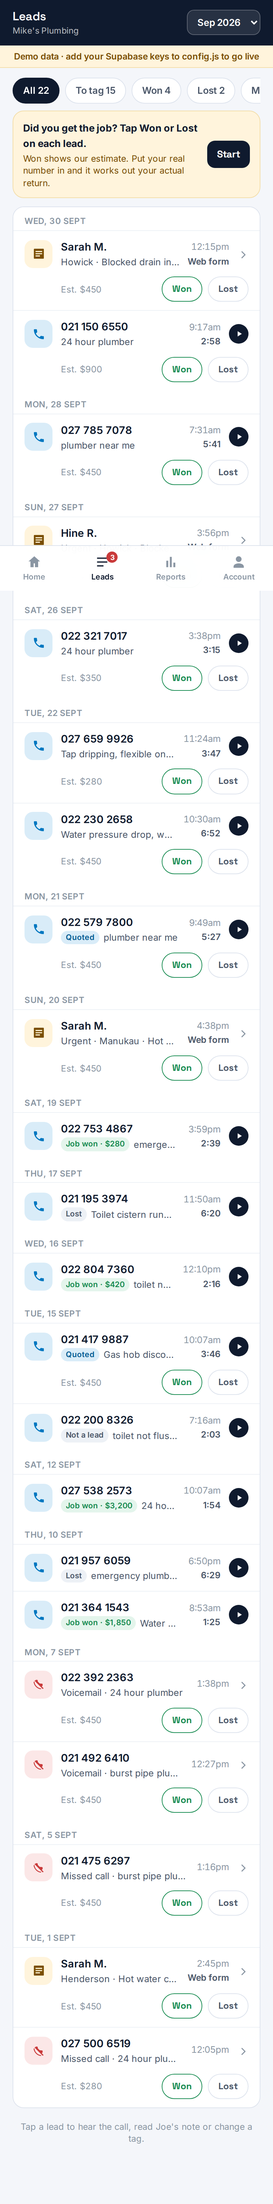
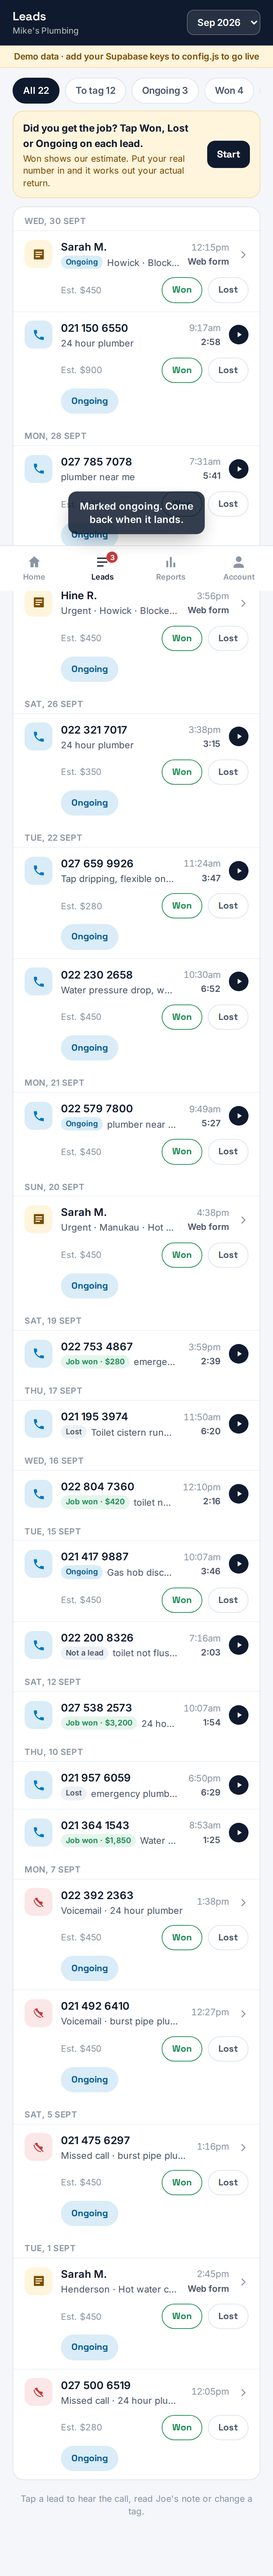
Add Ongoing as a lead outcome
Inline strip now offers Won, Lost and Ongoing; ongoing leads keep their
Won/Lost buttons until they land. Replaces Quoted with Ongoing in the
detail view (legacy quoted values display as Ongoing), adds an Ongoing
filter and report row, and allows the value in the schema.

Claude-Session: https://claude.ai/code/session_01VgpvMX7zLqg1kcFMCfdGMH

diff --git a/portal/app/public/app.js b/portal/app/public/app.js
@@ -256,9 +256,9 @@ function monthStats(c, ym) {
   const leads = all.length - spam;
   const won = all.filter((x) => x.client_status === "won");
   const wonValue = won.reduce((a, x) => a + (Number(x.job_value) || 0), 0);
-  const quoted = all.filter((x) => x.client_status === "quoted").length;
+  const quoted = all.filter((x) => x.client_status === "quoted" || x.client_status === "ongoing").length; // "ongoing" in the UI
   const lost = all.filter((x) => x.client_status === "lost").length;
-  const untagged = all.filter((x) => x.client_status === "new" || x.client_status === "quoted").length;
+  const untagged = all.filter((x) => x.client_status === "new").length;
   const estTotal = all.filter((x) => x.client_status !== "spam" && x.client_status !== "not_lead").reduce((a, x) => a + estimateFor(x, c), 0);
   const nWeeks = Math.ceil(daysIn(ym) / 7); const weeks = new Array(nWeeks).fill(0);
   for (const x of all) if (x.client_status !== "spam") weeks[Math.min(nWeeks, weekOf(x.called_at || x.received_at)) - 1]++;
@@ -495,17 +495,18 @@ function renderNoPortal() {
 
 /* ═══════════════════════════ screens: partner ═══════════════════════════ */
 const targetChip = (st) => st.target === "on" ? `<span class="chip good"><i></i>On target</span>` : st.target === "above" ? `<span class="chip good"><i></i>Above target</span>` : `<span class="chip warn"><i></i>Below target</span>`;
-function statusChip(x) { const m = { won: ["good", "Job won"], lost: ["", "Lost"], quoted: ["blue", "Quoted"], not_lead: ["", "Not a lead"], spam: ["", "Spam"] }; if (!m[x.client_status]) return ""; const [cls, l] = m[x.client_status]; return `<span class="chip ${cls}">${l}${x.client_status === "won" && x.job_value ? ` · ${money(x.job_value)}` : ""}</span>`; }
+function statusChip(x) { const m = { won: ["good", "Job won"], lost: ["", "Lost"], ongoing: ["blue", "Ongoing"], quoted: ["blue", "Ongoing"], not_lead: ["", "Not a lead"], spam: ["", "Spam"] }; if (!m[x.client_status]) return ""; const [cls, l] = m[x.client_status]; return `<span class="chip ${cls}">${l}${x.client_status === "won" && x.job_value ? ` · ${money(x.job_value)}` : ""}</span>`; }
 function leadRow(x, base, c) {
   const isCall = x.kind === "call"; const missed = isCall && x.outcome !== "answered"; const ic = isCall ? (missed ? "miss" : "") : "form";
-  const canTag = c && (x.client_status === "new" || x.client_status === "quoted") && !(isCall && missed && x.outcome === "missed" && false);
+  const isOngoing = x.client_status === "ongoing" || x.client_status === "quoted";
+  const canTag = c && (x.client_status === "new" || isOngoing);
   const est = c ? estimateFor(x, c) : 0;
   const t1 = isCall ? x.caller_number : x.name || x.phone;
   const t2 = isCall ? (missed ? `${x.outcome === "voicemail" ? "Voicemail" : "Missed call"} · ${x.keyword || x.city || "Google Ads"}` : x.admin_note || x.keyword || x.city || "Google Ads call") : `${x.is_urgent ? "Urgent · " : ""}${x.suburb ? x.suburb + " · " : ""}${x.message}`;
   const hasRec = isCall && (x.recording_url || x.recording_path);
   const row = `<a class="li" href="#${base}/lead/${x.id}"><div class="ic ${ic}">${isCall ? (missed ? ICON.missed : ICON.phone) : ICON.form}</div><div class="grow"><div class="t1"><span>${h(t1)}</span></div><div class="t2">${x.client_status !== "new" ? statusChip(x) : ""}<span class="tx">${h(t2)}</span></div></div><div class="meta"><div class="tm">${fmtTime(x.at)}</div><div class="du">${isCall ? (missed ? "" : durShort(x.duration_sec)) : "Web form"}</div></div>${hasRec ? `<span class="play">${ICON.play}</span>` : `<span class="chev">${ICON.chev}</span>`}</a>`;
   if (!canTag) return `<div class="lw">${row}</div>`;
-  return `<div class="lw">${row}<div class="tagstrip" data-id="${x.id}" data-kind="${x.kind}" data-est="${est}"><span class="est">${est ? `Est. ${money(est)}` : "Did you get it?"}</span><button class="tg won" data-act="won">Won</button><button class="tg lost" data-act="lost">Lost</button>
+  return `<div class="lw">${row}<div class="tagstrip" data-id="${x.id}" data-kind="${x.kind}" data-est="${est}"><span class="est">${est ? `Est. ${money(est)}` : "Did you get it?"}</span><button class="tg won" data-act="won">Won</button><button class="tg lost" data-act="lost">Lost</button>${isOngoing ? "" : `<button class="tg ongoing" data-act="ongoing">Ongoing</button>`}
     <div class="valrow hidden"><span class="cur">$</span><input type="number" inputmode="decimal" min="0" step="10" value="${est || ""}" aria-label="Job value" placeholder="job value"><button class="tg save" data-act="save">Save</button><button class="tg cancel" data-act="cancel" aria-label="Cancel">${ICON.x}</button><span class="hint">Your real number, ex GST. Rough is fine.</span></div></div></div>`;
 }
 // one handler per list: Won → value box (prefilled with the estimate) → Save; Lost saves straight away
@@ -513,13 +514,14 @@ function bindTagStrips(root, afterSave) {
   root.addEventListener("click", async (e) => {
     const btn = e.target.closest("[data-act]"); if (!btn) return; const strip = btn.closest(".tagstrip"); if (!strip) return;
     e.preventDefault(); const act = btn.dataset.act; const val = strip.querySelector(".valrow"); const input = strip.querySelector("input");
-    if (act === "won") { val.classList.remove("hidden"); strip.querySelector(".tg.won").classList.add("hidden"); strip.querySelector(".tg.lost").classList.add("hidden"); input.focus(); input.select(); return; }
-    if (act === "cancel") { val.classList.add("hidden"); strip.querySelector(".tg.won").classList.remove("hidden"); strip.querySelector(".tg.lost").classList.remove("hidden"); return; }
+    const mainBtns = strip.querySelectorAll(".tg.won, .tg.lost, .tg.ongoing");
+    if (act === "won") { val.classList.remove("hidden"); mainBtns.forEach((b) => b.classList.add("hidden")); input.focus(); input.select(); return; }
+    if (act === "cancel") { val.classList.add("hidden"); mainBtns.forEach((b) => b.classList.remove("hidden")); return; }
     const kind = strip.dataset.kind, id = strip.dataset.id;
-    const patch = act === "save" ? { client_status: "won", job_value: Math.max(0, Number(input.value) || 0) } : { client_status: "lost", job_value: 0 };
+    const patch = act === "save" ? { client_status: "won", job_value: Math.max(0, Number(input.value) || 0) } : act === "ongoing" ? { client_status: "ongoing", job_value: 0 } : { client_status: "lost", job_value: 0 };
     strip.querySelectorAll("button").forEach((b) => b.setAttribute("disabled", ""));
     try { await api.updateLead(kind, id, patch); const rec = kind === "call" ? DB.calls.find((r) => r.id === id) : DB.enquiries.find((r) => r.id === id); if (rec) Object.assign(rec, patch);
-      toast(act === "save" ? `Nice one. ${money(patch.job_value)} won.` : "Tagged as lost"); afterSave && afterSave(); }
+      toast(act === "save" ? `Nice one. ${money(patch.job_value)} won.` : act === "ongoing" ? "Marked ongoing. Come back when it lands." : "Tagged as lost"); afterSave && afterSave(); }
     catch (ex) { toast(ex.message, true); strip.querySelectorAll("button").forEach((b) => b.removeAttribute("disabled")); }
   });
 }
@@ -569,15 +571,15 @@ function renderLeads(ctx) {
   const c = ctx.client; const months = clientMonths(c.id); const cur = CUR_YM();
   const ym = ctx.args[0] && months.includes(ctx.args[0]) ? ctx.args[0] : months[0] || cur; const filter = ctx.args[1] || "all";
   let items = leadsFor(c.id, ym);
-  const isUntagged = (x) => x.client_status === "new" || x.client_status === "quoted";
-  const counts = { all: items.length, missed: items.filter((x) => x.kind === "call" && x.outcome !== "answered").length, web: items.filter((x) => x.kind === "enquiry").length, rec: items.filter((x) => x.recording_url || x.recording_path).length, untagged: items.filter(isUntagged).length, won: items.filter((x) => x.client_status === "won").length, lost: items.filter((x) => x.client_status === "lost").length };
-  if (filter === "missed") items = items.filter((x) => x.kind === "call" && x.outcome !== "answered"); else if (filter === "web") items = items.filter((x) => x.kind === "enquiry"); else if (filter === "rec") items = items.filter((x) => x.recording_url || x.recording_path); else if (filter === "untagged") items = items.filter(isUntagged); else if (filter === "won") items = items.filter((x) => x.client_status === "won"); else if (filter === "lost") items = items.filter((x) => x.client_status === "lost");
+  const isUntagged = (x) => x.client_status === "new"; const isOngoing = (x) => x.client_status === "ongoing" || x.client_status === "quoted";
+  const counts = { all: items.length, missed: items.filter((x) => x.kind === "call" && x.outcome !== "answered").length, web: items.filter((x) => x.kind === "enquiry").length, rec: items.filter((x) => x.recording_url || x.recording_path).length, untagged: items.filter(isUntagged).length, ongoing: items.filter(isOngoing).length, won: items.filter((x) => x.client_status === "won").length, lost: items.filter((x) => x.client_status === "lost").length };
+  if (filter === "missed") items = items.filter((x) => x.kind === "call" && x.outcome !== "answered"); else if (filter === "web") items = items.filter((x) => x.kind === "enquiry"); else if (filter === "rec") items = items.filter((x) => x.recording_url || x.recording_path); else if (filter === "untagged") items = items.filter(isUntagged); else if (filter === "ongoing") items = items.filter(isOngoing); else if (filter === "won") items = items.filter((x) => x.client_status === "won"); else if (filter === "lost") items = items.filter((x) => x.client_status === "lost");
   const wonSum = leadsFor(c.id, ym).filter((x) => x.client_status === "won").reduce((a, x) => a + (Number(x.job_value) || 0), 0);
   const groups = []; for (const x of items) { const d = fmtDay(x.at); const g = groups[groups.length - 1]; if (g && g.d === d) g.items.push(x); else groups.push({ d, items: [x] }); }
   const chip = (k, l) => `<a class="f ${filter === k ? "on" : ""}" href="#${ctx.base}/leads/${ym}/${k}">${l} ${counts[k]}</a>`;
   app().innerHTML = topBar({ title: "Leads", sub: h(c.business_name), right: monthSelect("ym-sel", months.length ? months : [ym], ym, ym === cur) }) + `<div class="shell">
-  <div class="chips mt12">${chip("all", "All")}${chip("untagged", "To tag")}${chip("won", "Won")}${chip("lost", "Lost")}${chip("missed", "Missed")}${chip("web", "Web forms")}${chip("rec", "Recorded")}</div>
-  ${counts.untagged && filter === "all" ? `<div class="card" style="padding:12px 14px;margin-top:4px;background:var(--gold-bg);border-color:#F3DDA8"><div class="row"><div class="grow"><b style="font-size:14px">Did you get the job? Tap Won or Lost on each lead.</b><div class="small" style="color:var(--gold-ink);margin-top:2px">Won shows our estimate. Put your real number in and it works out your actual return.</div></div><a class="btn sm navy" href="#${ctx.base}/leads/${ym}/untagged">Start</a></div></div>` : ""}
+  <div class="chips mt12">${chip("all", "All")}${chip("untagged", "To tag")}${chip("ongoing", "Ongoing")}${chip("won", "Won")}${chip("lost", "Lost")}${chip("missed", "Missed")}${chip("web", "Web forms")}${chip("rec", "Recorded")}</div>
+  ${counts.untagged && filter === "all" ? `<div class="card" style="padding:12px 14px;margin-top:4px;background:var(--gold-bg);border-color:#F3DDA8"><div class="row"><div class="grow"><b style="font-size:14px">Did you get the job? Tap Won, Lost or Ongoing on each lead.</b><div class="small" style="color:var(--gold-ink);margin-top:2px">Won shows our estimate. Put your real number in and it works out your actual return.</div></div><a class="btn sm navy" href="#${ctx.base}/leads/${ym}/untagged">Start</a></div></div>` : ""}
   ${filter === "won" && wonSum ? `<div class="card mt12" style="padding:12px 14px;background:var(--good-bg);border-color:#BFE5CF"><b style="color:#0F6B3D">${money(wonSum)} confirmed won in ${ymLabel(ym, false)}</b><div class="small" style="color:#1F5A3C;margin-top:2px">From ${counts.won} job${counts.won === 1 ? "" : "s"} on a ${money(c.monthly_fee)} plan.</div></div>` : ""}
   <div class="list mt12" id="lead-list">${groups.length ? groups.map((g) => `<div class="day">${h(g.d)}</div>${g.items.map((x) => leadRow(x, ctx.base, c)).join("")}`).join("") : emptyState(filter === "all" ? `Nothing here for ${ymLabel(ym, false)} yet` : "Nothing in this filter", filter === "all" ? "Calls and web enquiries show up here as they come in." : "")}</div>
   <p class="small muted center" style="margin:18px 0 8px">Tap a lead to hear the call, read ${h(JOE.name)}'s note or change a tag.</p></div>`;
@@ -588,6 +590,7 @@ async function renderLead(ctx) {
   const x = findLead(ctx.args[0]); if (!x || x.client_id !== ctx.cid) return go(`${ctx.base}/leads`);
   const isCall = x.kind === "call"; const missed = isCall && x.outcome !== "answered";
   const tel = (isCall ? x.caller_number : x.phone || "").replace(/\s/g, "");
+  if (x.client_status === "quoted") x.client_status = "ongoing"; // legacy value shows as Ongoing
   const segBtn = (k, l, ic) => `<button data-st="${k}" class="${x.client_status === k ? "on " + k : ""}">${ic}${l}</button>`;
   const hasRec = isCall && (x.recording_url || x.recording_path);
   const c = ctx.client; const est = estimateFor(x, c);
@@ -602,7 +605,7 @@ async function renderLead(ctx) {
   ${isCall && missed ? `<div class="card mt12" style="background:var(--bad-bg);border-color:#F2C9C9"><b style="font-size:14.5px;color:var(--bad)">This one rang out.</b><p class="small mt8" style="color:#7A2E2E;line-height:1.45">Most people searching for an emergency tradie call the next result if nobody answers. A call back inside 10 minutes recovers a good share of these.</p></div>` : ""}
   ${x.admin_note ? `<div class="card note mt12"><div class="who"><div class="avatar">${h(JOE.name[0])}</div><div><b>${h(JOE.name)}'s note</b><small>From the call review</small></div></div><p>${h(x.admin_note)}</p></div>` : ""}
   <div class="sec"><div class="sec-h"><h2>What happened with this lead?</h2></div><div class="card">
-    <div class="seg six">${segBtn("new", "New", ICON.dot)}${segBtn("quoted", "Quoted", ICON.quote)}${segBtn("won", "Won", ICON.star)}${segBtn("lost", "Lost", ICON.dn)}${segBtn("not_lead", "Not a lead", ICON.ban)}${segBtn("spam", "Spam", ICON.x)}</div>
+    <div class="seg six">${segBtn("new", "New", ICON.dot)}${segBtn("ongoing", "Ongoing", ICON.quote)}${segBtn("won", "Won", ICON.star)}${segBtn("lost", "Lost", ICON.dn)}${segBtn("not_lead", "Not a lead", ICON.ban)}${segBtn("spam", "Spam", ICON.x)}</div>
     ${est ? `<div class="est-line"><span>${h(JOE.name)}'s estimate for this job</span><b>${money(est)}</b></div>` : ""}
     <div id="won-box" class="${x.client_status === "won" ? "" : "hidden"}"><label class="fld"><span>What it was actually worth (ex GST, rough is fine)</span><input id="jv" type="number" inputmode="decimal" placeholder="e.g. ${est || 450}" value="${x.job_value || ""}"></label></div>
     <label class="fld"><span>Your note (optional)</span><textarea id="cn" placeholder="e.g. Booked for Tuesday, quoted $420">${h(x.client_note || "")}</textarea></label>
@@ -644,7 +647,7 @@ function renderReport(ctx) {
   const kv = (k, v) => `<div class="rpt-k"><span>${k}</span><b>${v}</b></div>`;
   app().innerHTML = topBar({ title: `${ymLabel(ym)} report`, sub: h(c.business_name), back: `${ctx.base}/reports` }) + `<div class="shell">
   <div class="hero" style="margin-top:16px"><div class="k">${ymLabel(ym)}${st.wonValue ? " · your return" : ""}</div>${st.wonValue ? `<div class="n ret">${(st.wonValue / (Number(c.monthly_fee) || 1)).toFixed(1)}x</div><div class="sub">${money(st.wonValue)} confirmed won from your ${money(c.monthly_fee)} plan · ${st.leads} leads</div>` : `<div class="n">${st.leads}<small>leads</small></div><div class="sub">${h(c.package_name)} plan · target ${c.lead_target_min} to ${c.lead_target_max}</div>`}<div class="mt12">${targetChip(st)}${prev.leads ? ` <span class="chip white">${st.leads >= prev.leads ? "+" : ""}${st.leads - prev.leads} leads vs ${ymLabel(ymAdd(ym, -1), false)}</span>` : ""}</div></div>
-  <div class="card mt12">${kv("Phone calls", st.calls)}${kv("Answered", `${st.answered} <span class="muted small">(${pct(st.answered, st.calls)}%)</span>`)}${kv("Missed or voicemail", `${st.missed} <span class="muted small">(${st.missedRate}%)</span>`)}${kv("Web enquiries", st.enq)}${kv("Average call length", st.avgDur ? dur(st.avgDur) : "–")}${st.spam ? kv("Spam removed", st.spam) : ""}${c.show_cost_per_lead ? kv("Cost per lead", `${money(st.cplFee)} <span class="muted small">on ${money(c.monthly_fee)}</span>`) : ""}${c.show_ad_spend && st.adSpend != null ? kv("Ad spend (Google)", money(st.adSpend)) : ""}${kv("Estimated value of leads", money(st.estTotal))}${st.won ? kv("Jobs you tagged won", `${st.won} · ${money(st.wonValue)}`) : ""}${st.lost ? kv("Tagged lost", st.lost) : ""}${st.quoted ? kv("Quotes out", st.quoted) : ""}${st.untagged ? kv("Still to tag", st.untagged) : ""}</div>
+  <div class="card mt12">${kv("Phone calls", st.calls)}${kv("Answered", `${st.answered} <span class="muted small">(${pct(st.answered, st.calls)}%)</span>`)}${kv("Missed or voicemail", `${st.missed} <span class="muted small">(${st.missedRate}%)</span>`)}${kv("Web enquiries", st.enq)}${kv("Average call length", st.avgDur ? dur(st.avgDur) : "–")}${st.spam ? kv("Spam removed", st.spam) : ""}${c.show_cost_per_lead ? kv("Cost per lead", `${money(st.cplFee)} <span class="muted small">on ${money(c.monthly_fee)}</span>`) : ""}${c.show_ad_spend && st.adSpend != null ? kv("Ad spend (Google)", money(st.adSpend)) : ""}${kv("Estimated value of leads", money(st.estTotal))}${st.won ? kv("Jobs you tagged won", `${st.won} · ${money(st.wonValue)}`) : ""}${st.lost ? kv("Tagged lost", st.lost) : ""}${st.quoted ? kv("Ongoing", st.quoted) : ""}${st.untagged ? kv("Still to tag", st.untagged) : ""}</div>
   ${st.wonValue ? `<div class="card mt12" style="background:var(--good-bg);border-color:#BFE5CF"><b style="font-size:15px;color:#0F6B3D">${money(st.wonValue)} confirmed won from a ${money(c.monthly_fee)} plan</b><p class="small mt8" style="color:#1F5A3C;line-height:1.45">That's ${(st.wonValue / (Number(c.monthly_fee) || 1)).toFixed(1)}x on your own numbers, from the ${st.won} job${st.won === 1 ? "" : "s"} you tagged won.${st.untagged ? ` ${st.untagged} lead${st.untagged === 1 ? " is" : "s are"} still untagged.` : ""}</p></div>` : `<div class="card mt12" style="background:var(--gold-bg);border-color:#F3DDA8"><b style="font-size:15px;color:var(--gold-ink)">${money(st.estTotal)} of estimated work in these leads</b><p class="small mt8" style="color:var(--gold-ink);line-height:1.45">Tap Won or Lost on each lead and put your real numbers in. The report then shows your actual return, not our estimate.</p></div>`}
   <div class="sec"><div class="sec-h"><h2>Leads by week</h2></div><div class="card chart">${columnChart({ labels: st.weeks.map((_, i) => "Wk " + (i + 1)), values: st.weeks, gold: st.leads ? [st.weeks.indexOf(Math.max(...st.weeks))] : [], height: 130, tipFmt: (i) => `Week ${i + 1}: ${st.weeks[i]} leads` })}</div></div>
   <div class="sec"><div class="sec-h"><h2>${h(JOE.name)}'s summary</h2></div><div class="card note"><div class="who"><div class="avatar">${h(JOE.name[0])}</div><div><b>${h(JOE.name)} · LeadHive</b><small>Published ${fmtDate(m.published_at)}</small></div></div><p>${h(m.summary)}</p></div></div>

diff --git a/portal/app/public/demo-data.js b/portal/app/public/demo-data.js
@@ -98,9 +98,9 @@
     const plan = [[m4, 16, 2], [m3, 19, 3], [m2, 24, 3], [m1, 18, 4]];
     for (const [ym, nc, ne] of plan) { calls = calls.concat(genCalls(r, mike, ym, nc, { missRate: 0.2 })); enquiries = enquiries.concat(genEnquiries(r, mike, ym, ne, {})); }
     const pick = (c, ym) => calls.filter((x) => x.client_id === c.id && x.ym === ym);
-    forceOutcomes(pick(mike, m1), 2, 2, true, NZ); applyTags(pick(mike, m1), [["won", 1850], ["lost"], ["won", 3200], ["not_lead"], ["quoted"], ["won", 420], ["lost"], ["won", 280], ["quoted"]]);
-    forceOutcomes(pick(mike, m2), 4, 2, false, NZ); applyTags(pick(mike, m2), [["won", 650], ["won", 2400], ["lost"], ["won", 380], ["not_lead"], ["won", 1200], ["lost"], ["won", 540], ["quoted"], ["won", 900]]);
-    forceOutcomes(pick(mike, m3), 3, 1, false, NZ); applyTags(pick(mike, m3), [["won", 420], ["quoted"], ["won", 1600], ["won", 260]]);
+    forceOutcomes(pick(mike, m1), 2, 2, true, NZ); applyTags(pick(mike, m1), [["won", 1850], ["lost"], ["won", 3200], ["not_lead"], ["ongoing"], ["won", 420], ["lost"], ["won", 280], ["ongoing"]]);
+    forceOutcomes(pick(mike, m2), 4, 2, false, NZ); applyTags(pick(mike, m2), [["won", 650], ["won", 2400], ["lost"], ["won", 380], ["not_lead"], ["won", 1200], ["lost"], ["won", 540], ["ongoing"], ["won", 900]]);
+    forceOutcomes(pick(mike, m3), 3, 1, false, NZ); applyTags(pick(mike, m3), [["won", 420], ["ongoing"], ["won", 1600], ["won", 260]]);
     forceOutcomes(pick(mike, m4), 2, 0, false, NZ);
     // this month so far
     const todayDay = +tzParts(now.getTime(), NZ).day;
@@ -112,8 +112,8 @@
     enquiries = enquiries.concat(liveEnq);
 
     for (const [ym, nc, ne] of [[m2, 26, 4], [m1, 31, 5]]) { calls = calls.concat(genCalls(r, bay, ym, nc, { missRate: 0.12 })); enquiries = enquiries.concat(genEnquiries(r, bay, ym, ne, {})); }
-    forceOutcomes(pick(bay, m1), 3, 1, false, AU); const bs = [["won", 2900], ["won", 640], ["quoted"], ["won", 4200], ["not_lead"], ["won", 380], ["quoted"], ["won", 1150], ["quoted"], ["won", 760]]; bs.spam = true; applyTags(pick(bay, m1), bs);
-    forceOutcomes(pick(bay, m2), 4, 1, false, AU); applyTags(pick(bay, m2), [["won", 1800], ["quoted"], ["won", 520], ["won", 3100], ["quoted"], ["won", 690]]);
+    forceOutcomes(pick(bay, m1), 3, 1, false, AU); const bs = [["won", 2900], ["won", 640], ["ongoing"], ["won", 4200], ["not_lead"], ["won", 380], ["ongoing"], ["won", 1150], ["ongoing"], ["won", 760]]; bs.spam = true; applyTags(pick(bay, m1), bs);
+    forceOutcomes(pick(bay, m2), 4, 1, false, AU); applyTags(pick(bay, m2), [["won", 1800], ["ongoing"], ["won", 520], ["won", 3100], ["ongoing"], ["won", 690]]);
     // Brian's first call since launch
     const [ly, lm] = m1.split("-").map(Number);
     calls.push({ id: uuid(r), client_id: nth.id, ym: m1, called_at: zonedToUtc(ly, lm, 30, 14, 5, 0, NZ).toISOString(), caller_number: "021 884 0022", duration_sec: 168, outcome: "answered", estimated_value: 6500, tracking_number: "09 801 3300", source: "Google Ads", campaign: "Northland Handyman · Search", keyword: "deck builder whangarei", city: "Whangārei", recording_url: "demo", recording_path: null, nimbata_call_id: "nb9001", admin_note: "Deck rebuild, Kamo. Wants a quote next week.", client_status: "new", job_value: 0, client_note: "", raw: null });

diff --git a/portal/app/public/index.html b/portal/app/public/index.html
@@ -174,6 +174,8 @@ h1,h2,h3,.head{font-family:var(--head);letter-spacing:-.3px}
 .tg{font:inherit;font-size:13px;font-weight:700;padding:8px 14px;border-radius:99px;border:1.5px solid var(--rule);background:var(--card);color:var(--ink-2);font-family:var(--head)}
 .tg.won{border-color:var(--good);color:var(--good)}
 .tg.lost{border-color:var(--rule);color:var(--ink-2)}
+.tg.ongoing{border-color:var(--blue-lo);color:#005B93;background:var(--blue-lo)}
+.seg button.on.ongoing{background:var(--blue);border-color:var(--blue)}
 .tg.save{background:var(--good);border-color:var(--good);color:#fff}
 .tg.cancel{padding:8px 11px}
 .tg:active{filter:brightness(.95)}

diff --git a/portal/README.md b/portal/README.md
@@ -125,11 +125,12 @@ is one small Lovable message per landing page; do it when you next touch the pag
 
 ## Won / Lost tagging = the ROI engine
 
-Every lead row has **Won** and **Lost** buttons. Won opens a value box prefilled with your
+Every lead row has **Won**, **Lost** and **Ongoing** buttons. Won opens a value box prefilled with your
 estimate (the CSV "Value" column, or the partner's average job value from Settings); the
-partner overwrites it with the real number. The home screen and report then show
+partner overwrites it with the real number. Ongoing keeps the lead in play (the Won/Lost
+buttons stay on it until it lands). The home screen and report then show
 *estimated value of leads* vs *confirmed won* and the partner's return on their own numbers
-("4.4x"). Lead detail has the full set: New / Quoted / Won / Lost / Not a lead / Spam.
+("4.4x"). Lead detail has the full set: New / Ongoing / Won / Lost / Not a lead / Spam.
 Use the return in every renewal and upsell conversation, feed "not a lead" and "spam" back
 into negative keywords, and make tagging a two-minute ritual on the monthly check-in call.
 
